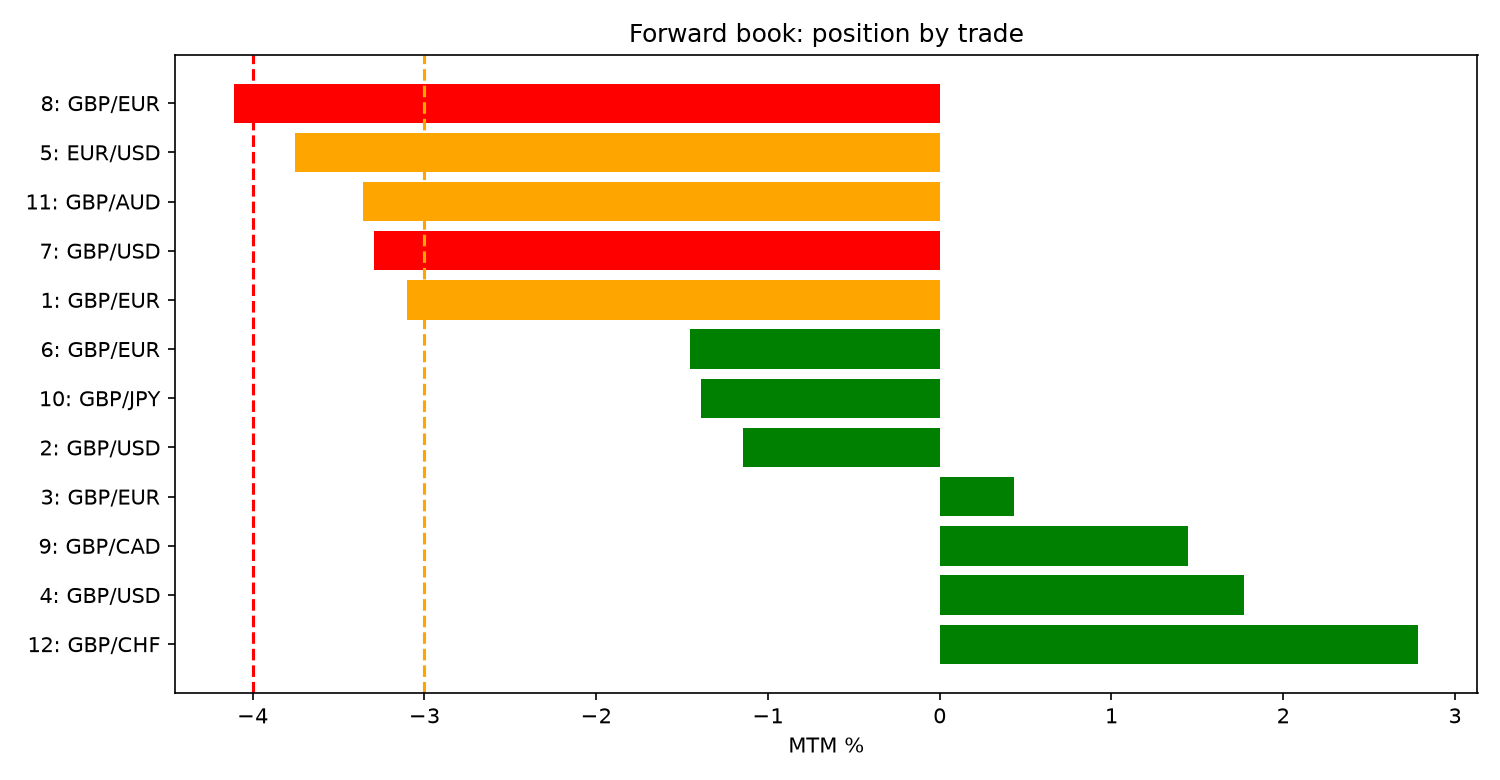
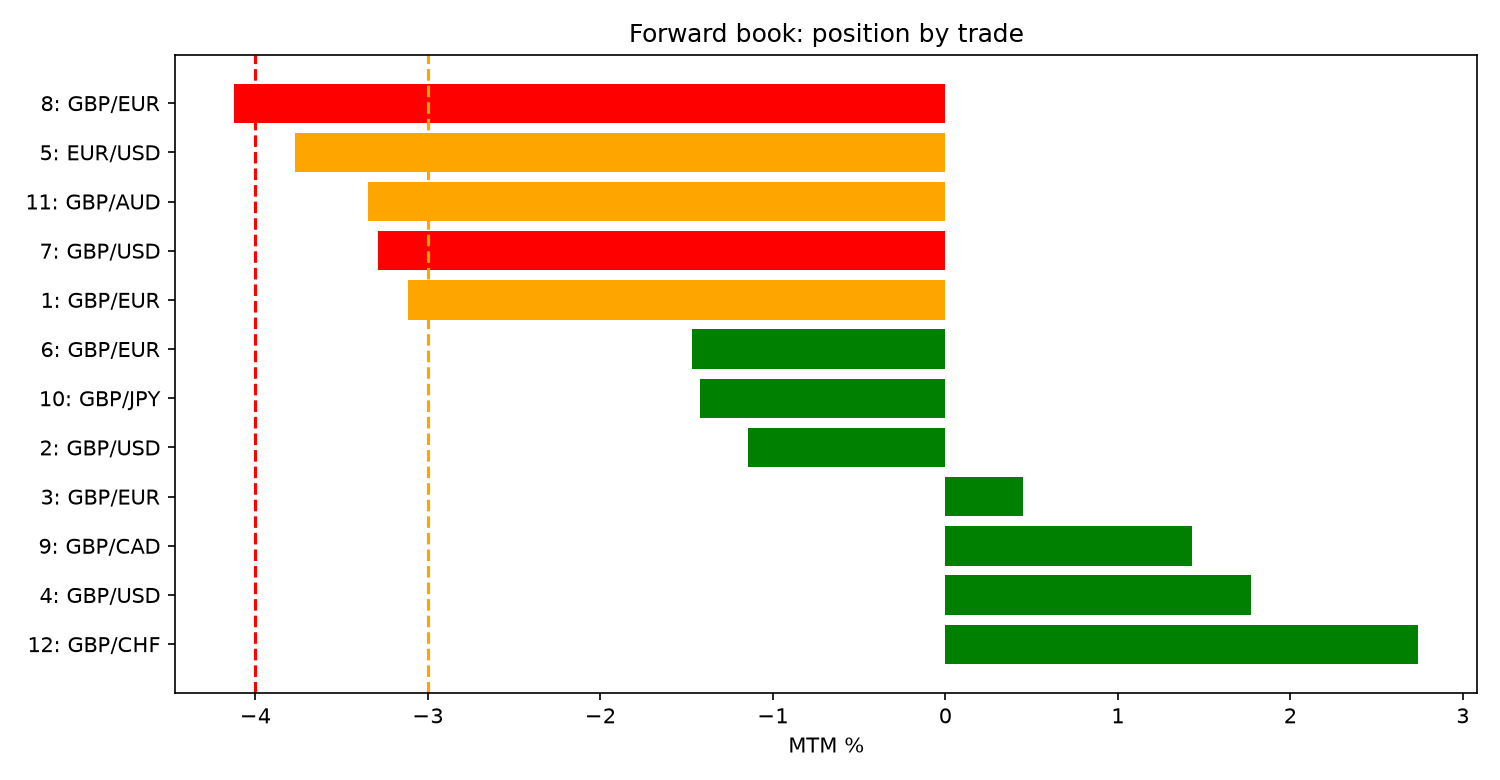
Add stress test

diff --git a/margin_monitor.py b/margin_monitor.py
@@ -33,40 +33,49 @@ def near_trigger(row):
     return decision
 
 
-# Load the book: one row per open forward.
-df = pd.read_csv("sample_book.csv")
-df["value_date"] = pd.to_datetime(df["value_date"])
-today = pd.Timestamp.today().normalize()
-# Time to settlement.
-df["days"] = (df["value_date"] - today).dt.days
-df["years"] = df["days"] / 365
-# Base amount of each trade, and the spot rate for its pair. Crosses are derived from the pound rates.
-df["notional_base"] = df["notional"] / df["contract_rate"]
-df["base_spot"] = df["base"].map(rates)
-df["market_rate"] = df["currency"].map(rates) / df["base_spot"]
-# Interest rate for each side of the pair.
-df["quote_rate"] = df["currency"].map(base_rates)
-df["base_ccy_rate"] = df["base"].map(base_rates)
-# Forward rate to the settlement date: spot x (1 + quote rate x t) / (1 + base rate x t).
-df["forward_rate"] = df["market_rate"] * (1 + df["quote_rate"] * df["years"]) / (1 + df["base_ccy_rate"] * df["years"])
-# +1 if the client buys the quote currency, -1 if they sell it.
-df["sign"] = df["side"].map({"buy": 1, "sell": -1})
-# Mark against the forward: P&L in the quote currency, then in the trade's base currency.
-df["pnl_ccy"] = df["notional_base"] * (df["contract_rate"] - df["forward_rate"]) * df["sign"]
-df["pnl_base"] = df["pnl_ccy"] / df["forward_rate"]
-# Convert to pounds for the book totals.
-df["notional_gbp"] = df["notional_base"] / df["base_spot"]
+# Mark the whole book with spot moved by a given percentage (0.01 = +1%). A shock of 0 is today's market.
+def mark_book(shock):
+    # Load the book: one row per open forward.
+    df = pd.read_csv("sample_book.csv")
+    df["value_date"] = pd.to_datetime(df["value_date"])
+    today = pd.Timestamp.today().normalize()
+    # Time to settlement.
+    df["days"] = (df["value_date"] - today).dt.days
+    df["years"] = df["days"] / 365
+    # Base amount of each trade, and the spot rate for its pair. Crosses are derived from the pound rates.
+    df["notional_base"] = df["notional"] / df["contract_rate"]
+    df["base_spot"] = df["base"].map(rates)
+    df["market_rate"] = df["currency"].map(rates) / df["base_spot"]
+    df["market_rate"] = df["market_rate"] * (1 + shock)
+    # Interest rate for each side of the pair.
+    df["quote_rate"] = df["currency"].map(base_rates)
+    df["base_ccy_rate"] = df["base"].map(base_rates)
+    # Forward rate to the settlement date: spot x (1 + quote rate x t) / (1 + base rate x t).
+    df["forward_rate"] = df["market_rate"] * (1 + df["quote_rate"] * df["years"]) / (
+            1 + df["base_ccy_rate"] * df["years"])
+    # +1 if the client buys the quote currency, -1 if they sell it.
+    df["sign"] = df["side"].map({"buy": 1, "sell": -1})
+    # Mark against the forward: P&L in the quote currency, then in the trade's base currency.
+    df["pnl_ccy"] = df["notional_base"] * (df["contract_rate"] - df["forward_rate"]) * df["sign"]
+    df["pnl_base"] = df["pnl_ccy"] / df["forward_rate"]
+    # Convert to pounds for the book totals.
+    df["notional_gbp"] = df["notional_base"] / df["base_spot"]
+    df["pnl_gbp"] = df["pnl_base"] / df["base_spot"]
+    # Position as a percentage of the trade, then apply the policy.
+    df["mtm_pct"] = df["pnl_base"] / df["notional_base"] * 100
+    df["decision"] = df.apply(decide, axis=1)
+    df["check"] = df.apply(near_trigger, axis=1)
+    df["pair"] = df["base"] + "/" + df["currency"]
+    return df
+
+
+df = mark_book(0.0)
 total_notional = df["notional_gbp"].sum()
-df["pnl_gbp"] = df["pnl_base"] / df["base_spot"]
-# Position as a percentage of the trade, then apply the policy.
-df["mtm_pct"] = df["pnl_base"] / df["notional_base"] * 100
-df["decision"] = df.apply(decide, axis=1)
-df["check"] = df.apply(near_trigger, axis=1)
-df["pair"] = df["base"] + "/" + df["currency"]
 total_pnl = df["pnl_gbp"].sum()
 total_position = total_pnl / total_notional * 100
 # Report: most offside first. Printed and saved to CSV.
-report = df[["row", "pair", "notional_gbp", "pnl_gbp", "mtm_pct", "decision", "check"]].round(2).sort_values("mtm_pct")
+report = df[["row", "pair", "side", "notional_gbp", "pnl_gbp", "mtm_pct", "decision", "check"]].round(2).sort_values(
+    "mtm_pct")
 print(report.to_string(index=False))
 report.to_csv("book_report.csv", index=False)
 print()
@@ -75,6 +84,30 @@ print(f"Total MTM: GBP {total_pnl:,.2f}")
 print(f"Total Position as a percentage: {total_position:,.2f}%")
 print()
 print(df["decision"].value_counts().to_string())
+print()
+# Stress test: move every pair's spot rate up and down, then re-mark the book and re-apply the margin policy.
+# A positive shock means the base currency strengthens against the quote currency.
+shocks = [-0.03, -0.02, -0.01, 0.00, 0.01, 0.02, 0.03]
+results = []
+for s in shocks:
+    stressed = mark_book(s)
+    result = {"Shock": s, "No Action": (stressed["decision"] == "No Action").sum(),
+              "Warning": (stressed["decision"] == "Warning").sum(),
+              "Margin Call": (stressed["decision"] == "Margin Call").sum()}
+    results.append(result)
+    # List the trades whose decision differs from today's.
+    stressed["real_decision"] = df["decision"]
+    changed = stressed[stressed["decision"] != stressed["real_decision"]]
+    report_shock = changed[["row", "pair", "side", "mtm_pct", "real_decision", "decision"]].round(2)
+    print(f"Shock: {s:.0%}")
+    if len(changed) == 0:
+        print("No Changes")
+    else:
+        print(report_shock.to_string(index=False))
+    print()
+# Summary: number of trades in each decision at each shock.
+stress_table = pd.DataFrame(results)
+print(stress_table.to_string(index=False))
 # Chart: one bar per trade, most offside at the top.
 # Green = No Action, orange = Warning, red = Margin Call.
 # Dashed lines mark the 3% and 4% triggers.

diff --git a/README.md b/README.md
@@ -1,7 +1,8 @@
 # FX Forward Margin Monitor
 
-A small Python tool that marks a book of open FX forwards to market and flags
-positions that are close to, or past, a margin trigger.
+A small Python tool that marks a book of open FX forwards to market, flags
+positions that are close to, or past, a margin trigger, and stress tests the
+book against moves in spot.
 
 I built it to monitor a live forward book at an FX and payments firm. The trades
 in this repository are made up.
@@ -22,6 +23,9 @@ For each open forward it:
 It then reports the whole book, sorted from most offside to most onside, with
 total notional, total mark-to-market and the book's overall position, and saves
 a chart of every trade against the margin triggers.
+
+Finally, it runs a stress test: it moves spot rates up and down by 1%, 2% and 3%,
+re-marks the book each time and shows which trades would change decision.
 
 ## How the marking works
 
@@ -54,19 +58,23 @@ at the top of `margin_monitor.py`.
 
 ## Example output
 
-     row    pair  notional_gbp   pnl_gbp  mtm_pct    decision     check
-       8 GBP/EUR     569176.88 -23352.32    -4.10 Margin Call
-       5 EUR/USD     346080.89 -12984.21    -3.75     Warning
-      11 GBP/AUD     393184.80 -13198.43    -3.36     Warning
-       7 GBP/USD     735294.12 -24205.19    -3.29 Margin Call
-       1 GBP/EUR     325379.61 -10079.27    -3.10     Warning Live Rate
-       6 GBP/EUR      72340.43  -1049.06    -1.45   No Action
-      10 GBP/JPY     121359.22  -1678.98    -1.38   No Action
-       2 GBP/USD     375234.52  -4305.82    -1.15   No Action
-       3 GBP/EUR     210084.03    902.20     0.43   No Action
-       9 GBP/CAD     149732.62   2169.91     1.45   No Action
-       4 GBP/USD    2425373.13  43015.53     1.77   No Action
-      12 GBP/CHF      89285.71   2497.83     2.80   No Action
+     row    pair side  notional_gbp   pnl_gbp  mtm_pct    decision check
+       8 GBP/EUR  buy     569176.88 -23461.34    -4.12 Margin Call
+       5 EUR/USD sell     346080.89 -13050.70    -3.77     Warning
+      11 GBP/AUD  buy     393184.80 -13156.46    -3.35     Warning
+       7 GBP/USD sell     735294.12 -24192.94    -3.29 Margin Call
+       1 GBP/EUR  buy     325379.61 -10141.90    -3.12     Warning
+       6 GBP/EUR  buy      72340.43  -1063.37    -1.47   No Action
+      10 GBP/JPY  buy     121359.22  -1723.80    -1.42   No Action
+       2 GBP/USD sell     375234.52  -4299.48    -1.15   No Action
+       3 GBP/EUR sell     210084.03    944.64     0.45   No Action
+       9 GBP/CAD  buy     149732.62   2140.99     1.43   No Action
+       4 GBP/USD  buy    2425373.13  42975.73     1.77   No Action
+      12 GBP/CHF  buy      89285.71   2448.26     2.74   No Action
+
+    Total Notional: GBP 5,812,525.97
+    Total MTM: GBP -42,580.36
+    Total Position as a percentage: -0.73%
 
 ## Chart
 
@@ -78,6 +86,39 @@ One bar per trade, most offside at the top. Green is No Action, orange is Warnin
 and red is Margin Call. The dashed lines mark the 3% and 4% triggers. A new client
 can be red before the 4% line, because their margin call level is 3%.
 
+## Stress test
+
+The marking is wrapped in a function, `mark_book(shock)`, so the same code can
+price the book at today's rates or with spot moved. The stress test calls it for
+seven shocks from -3% to +3%, applies the margin policy each time and compares
+the result with today's decisions.
+
+A positive shock means the base currency strengthens against the quote currency.
+For each shock the tool lists only the trades whose decision changes:
+
+    Shock: -3%
+     row    pair side  mtm_pct real_decision    decision
+       1 GBP/EUR  buy    -0.12       Warning   No Action
+       2 GBP/USD sell    -4.27     No Action Margin Call
+       5 EUR/USD sell    -6.98       Warning Margin Call
+       8 GBP/EUR  buy    -1.16   Margin Call   No Action
+      11 GBP/AUD  buy    -0.36       Warning   No Action
+
+It then prints a summary of how many trades sit in each decision at each shock:
+
+     Shock  No Action  Warning  Margin Call
+     -0.03          9        0            3
+     -0.02          9        1            2
+     -0.01          9        1            2
+      0.00          7        3            2
+      0.01          9        0            3
+      0.02          7        2            3
+      0.03          7        0            5
+
+This shows how close the book is to its triggers. In the sample book, a 3% rise
+in the base currencies takes margin calls from 2 to 5, while a 3% fall moves two
+trades to a margin call and clears three others.
+
 ## Notes and limits
 
 - Interest rates are central bank policy rates, used as a stand-in for market
@@ -85,7 +126,14 @@ can be red before the 4% line, because their margin call level is 3%.
   were within 1 to 5 pips, which is why trades near a trigger are flagged for
   a manual check.
 - Spot rates are entered by hand.
+- The stress test applies the same percentage move to every pair at once. This
+  is a simple sensitivity check, not a single consistent market scenario, since
+  linked pairs such as GBP/EUR, EUR/USD and GBP/USD cannot all move by the same
+  amount together.
 
 ## Next steps
 
+- Distance to trigger: how far spot must move before each trade changes decision
+- Exposure by currency pair
+- Margin call amounts
 - Load the dealing platform's export directly
